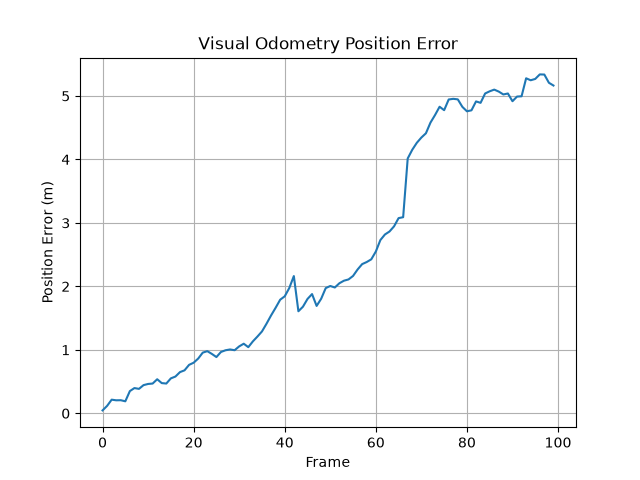
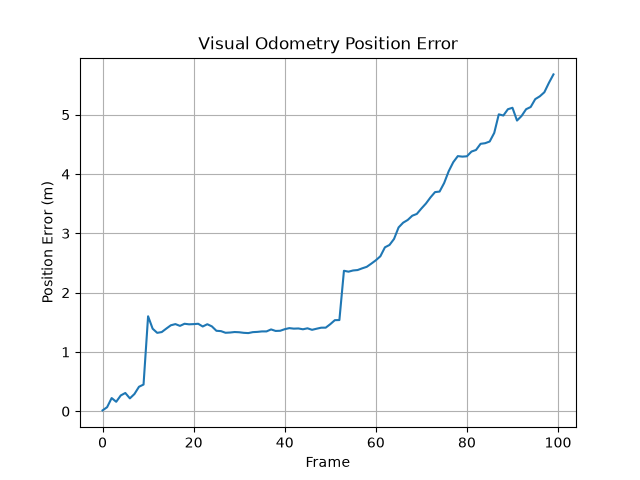
first comparison plotted between rudimentary VO and actual truth poses

diff --git a/src/dataset.py b/src/dataset.py
@@ -6,7 +6,6 @@ PROJECT_ROOT = Path(__file__).resolve().parents[1]
 DATA_DIR = PROJECT_ROOT / "data"
 RESULTS_DIR = PROJECT_ROOT / "results"
 
-
 def load_image(sequence: str, frame: int):
     image = cv2.imread(
         str(DATA_DIR / "sequences" / sequence / "image_0" / f"{frame:06d}.png"), cv2.IMREAD_GRAYSCALE)
@@ -131,15 +130,15 @@ truth_positions = np.array([pose[:, 3] for pose in gt_poses[:len(estimated_posit
 position_errors = np.linalg.norm(estimated_positions - truth_positions, axis=1)
 position_rmse = np.sqrt(np.mean(position_errors ** 2))
 
-plt.plot(errors)
+# plt.plot(errors)
 
-plt.xlabel("Frame")
-plt.ylabel("Position Error (m)")
-plt.title("Visual Odometry Position Error")
-plt.grid()
+# plt.xlabel("Frame")
+# plt.ylabel("Position Error (m)")
+# plt.title("Visual Odometry Position Error")
+# plt.grid()
 
-plt.savefig("results/position_error.png")
-plt.show()
+# plt.savefig("results/position_error.png")
+# plt.show()
 fig, ax = plt.subplots(figsize=(9, 7))
 ax.plot(truth_positions[:, 0], truth_positions[:, 2],
         label="KITTI ground truth", color="tab:blue", linewidth=2)
@@ -153,4 +152,5 @@ ax.axis("equal")
 ax.grid(alpha=0.3)
 ax.legend()
 fig.tight_layout()
+plt.savefig("results/vo_truth_comparison.png")
 plt.show()
